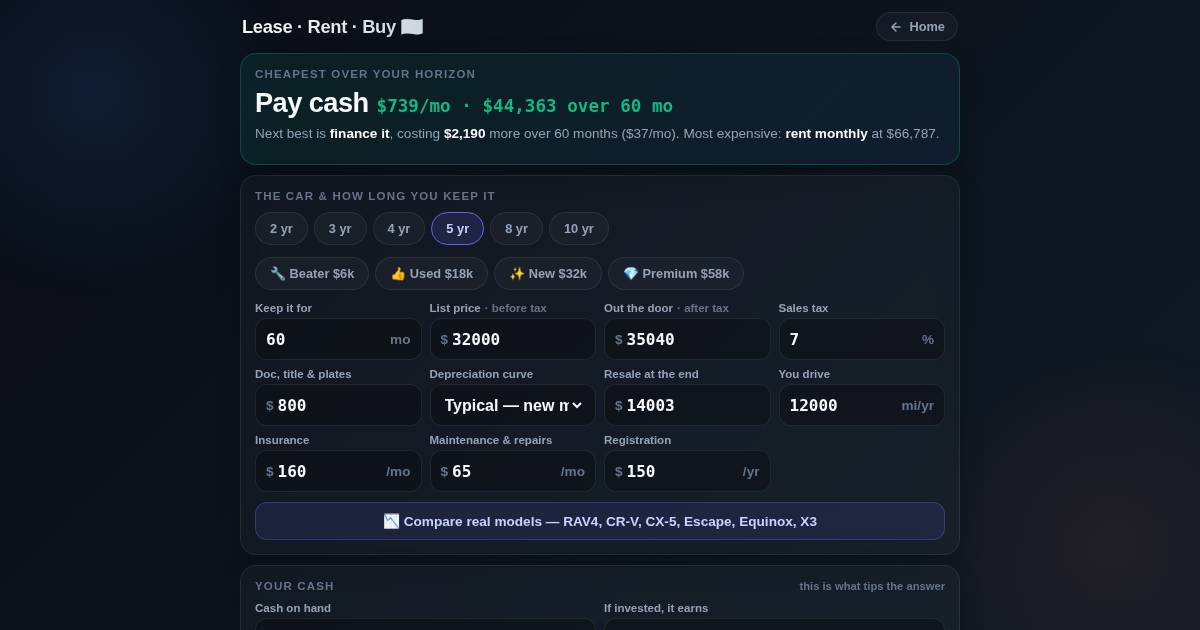
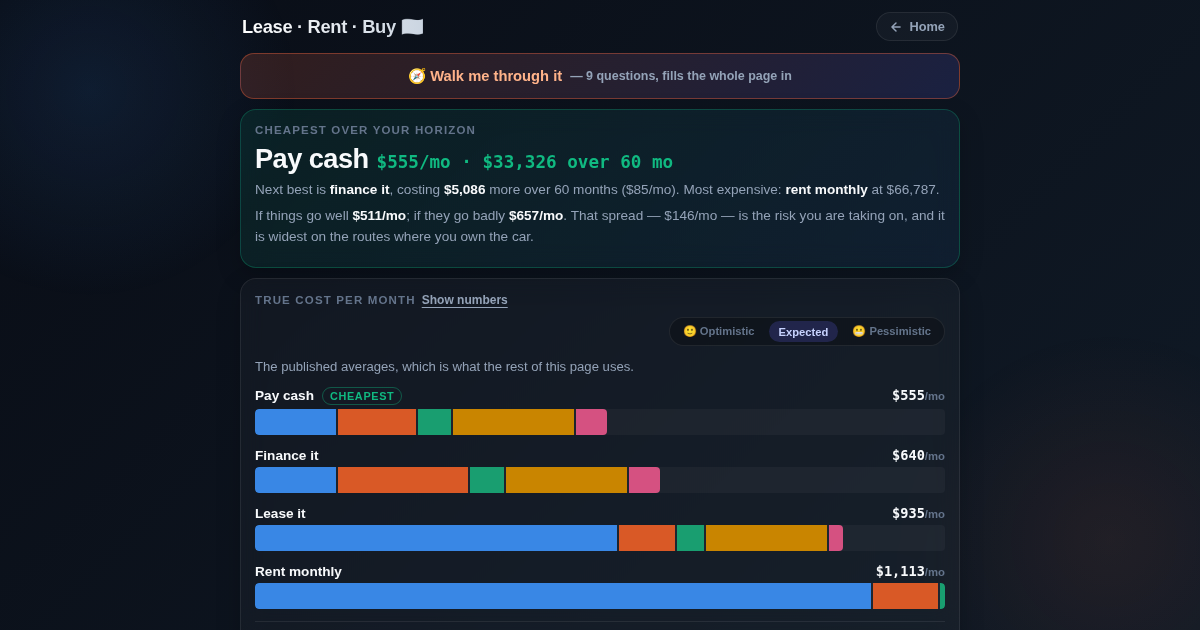
chore(car): refresh the link-preview screenshot
The card image still showed the old layout — flat presets, no scenario
toggle, chart below the inputs. Recaptured against the current page and
updated the alt text to match.

Claude-Session: https://claude.ai/code/session_01HSdfPVUsKRt1GFEnKLc2Xf

diff --git a/car/index.html b/car/index.html
@@ -17,7 +17,7 @@
     <meta property="og:image" content="https://neskil.github.io/assets/og/car.png">
     <meta property="og:image:width" content="1200">
     <meta property="og:image:height" content="630">
-    <meta property="og:image:alt" content="Car cost calculator showing 'Pay cash' as cheapest at $739 per month over 60 months, with the input panel below.">
+    <meta property="og:image:alt" content="Car cost calculator showing 'Pay cash' as cheapest at $555 per month over 60 months, with an optimistic-to-pessimistic range and a stacked cost breakdown for all four options.">
     <meta name="twitter:card" content="summary_large_image">
     <link rel="icon" href="../favicon.ico">
     <link rel="preconnect" href="https://fonts.googleapis.com">
